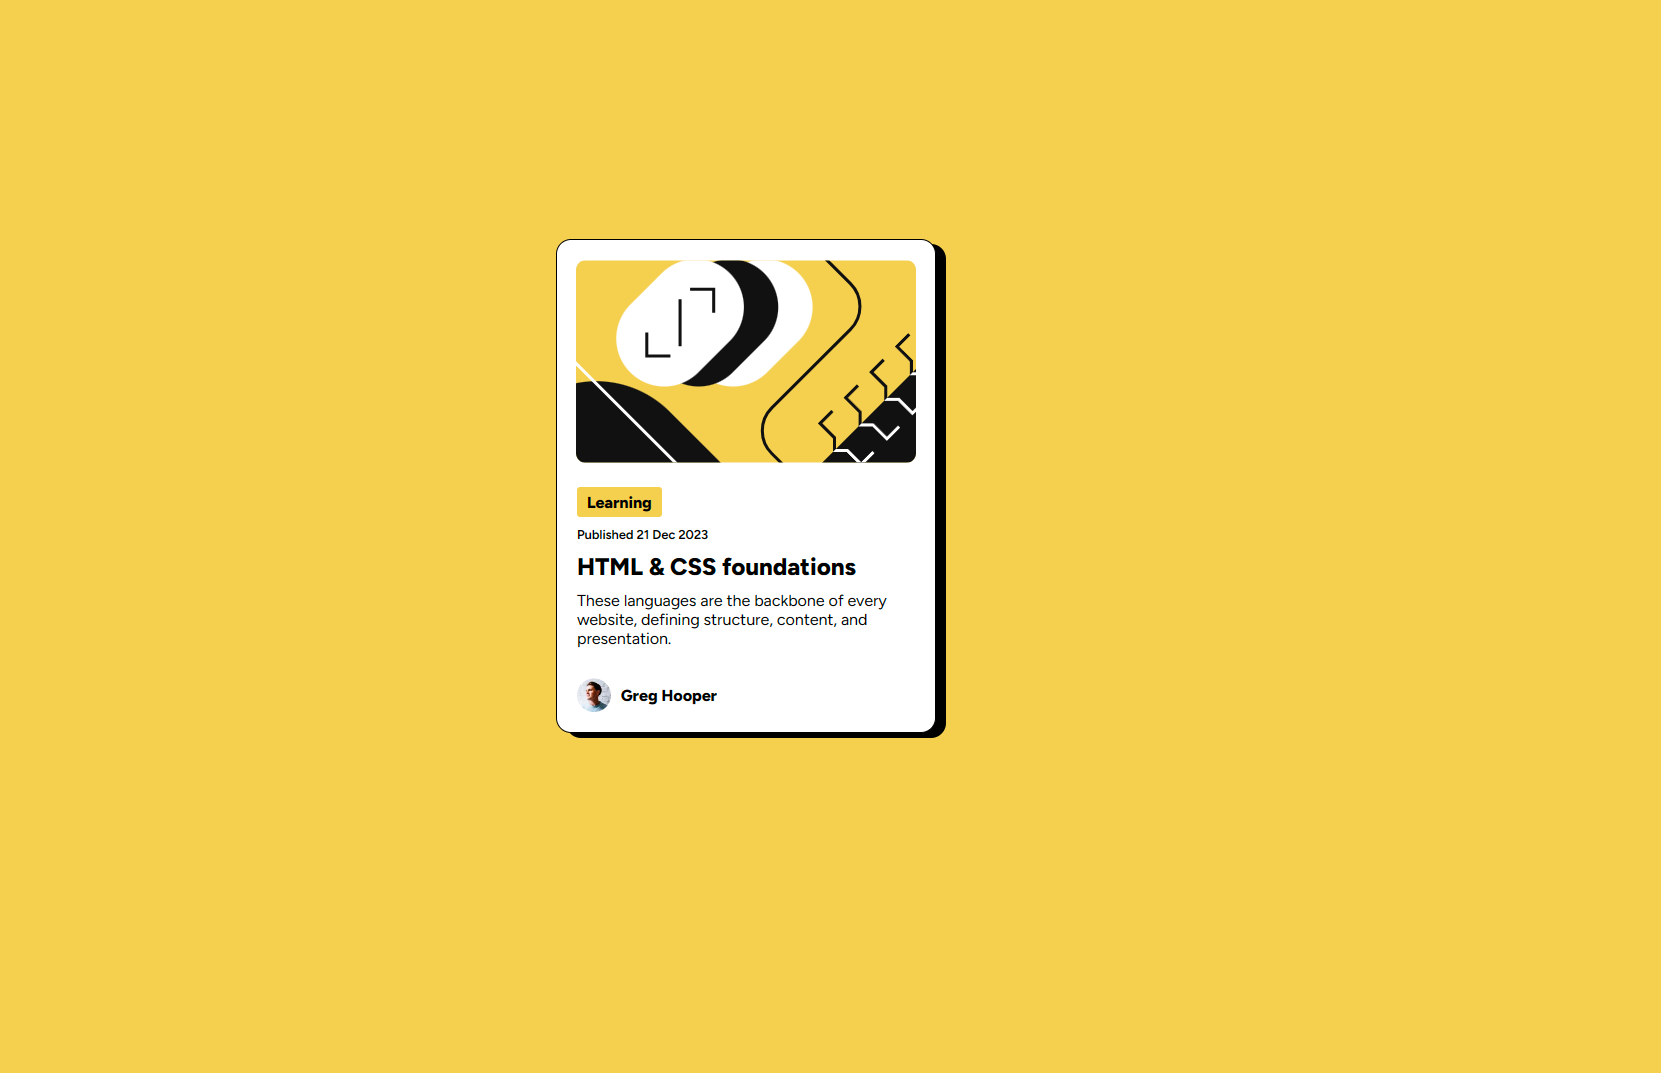
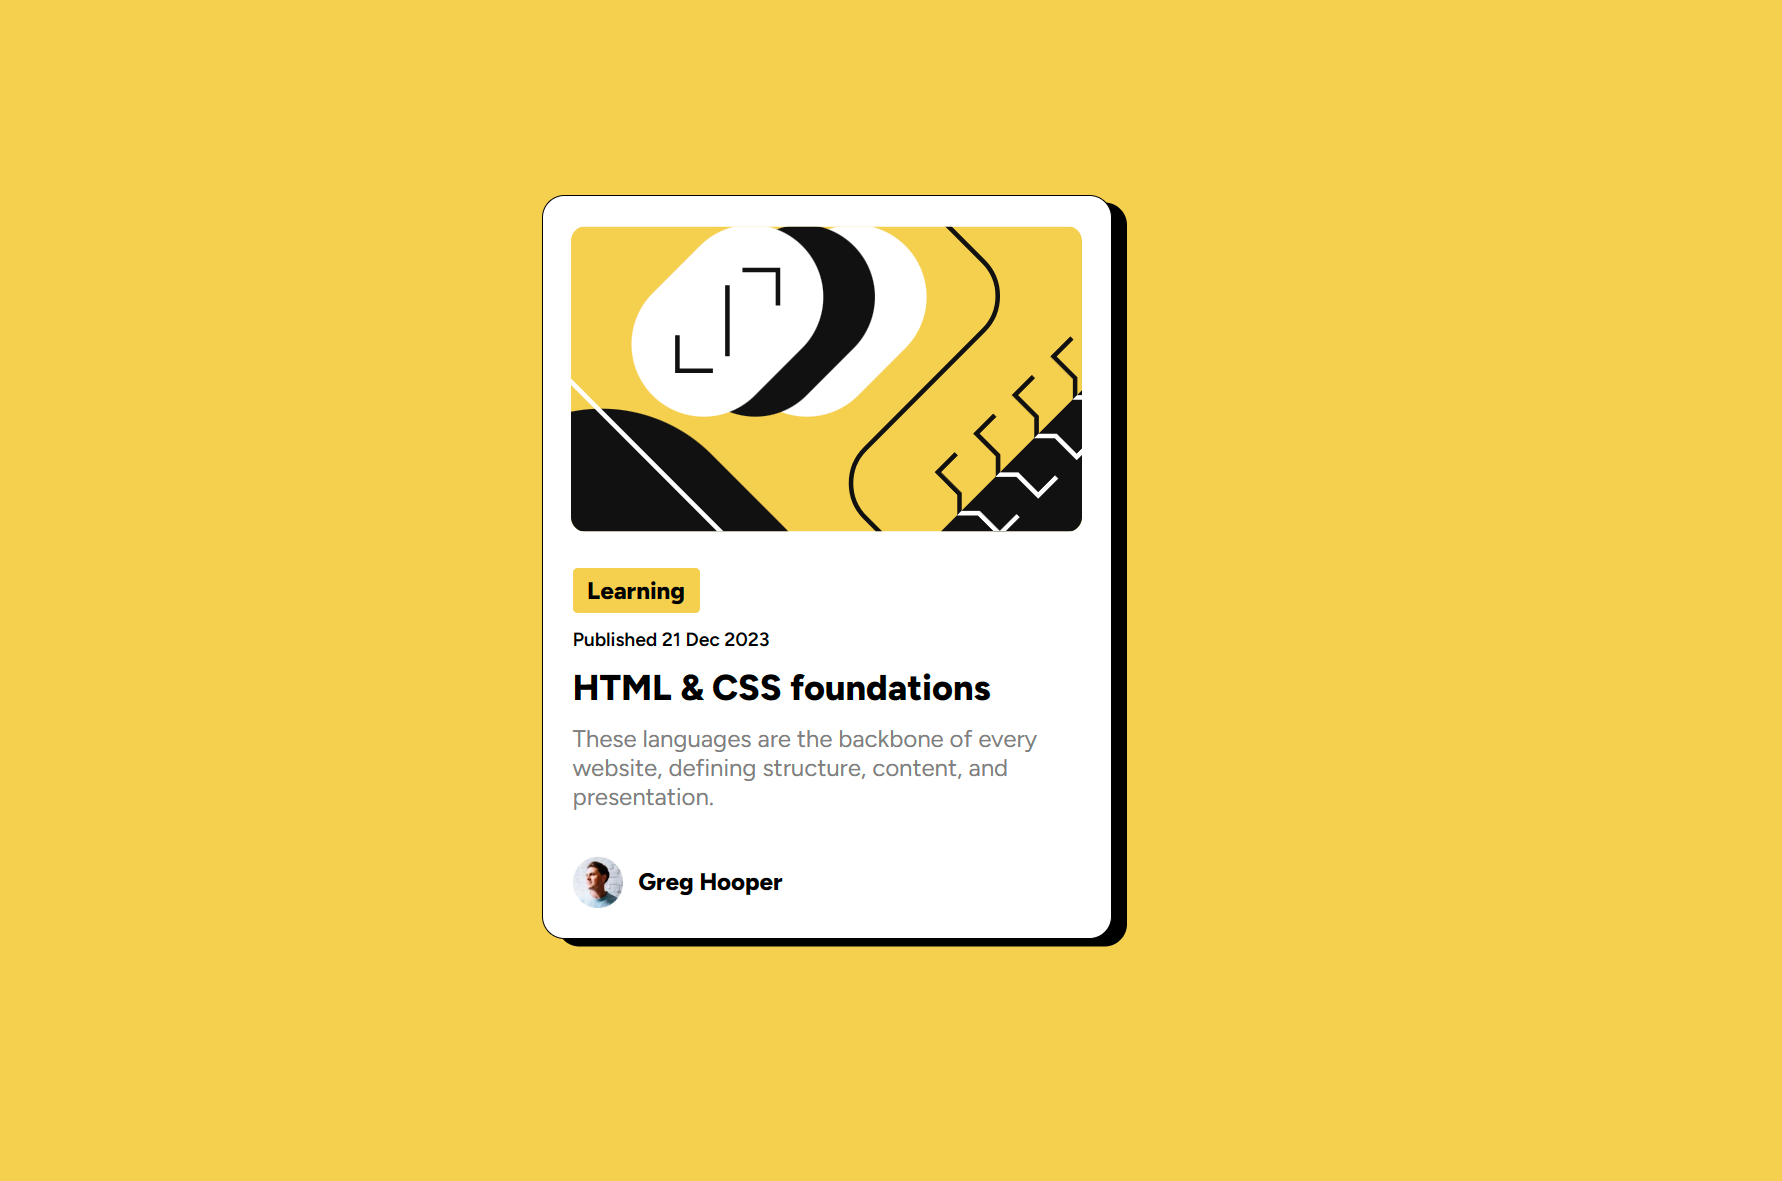
Changed description text color.

Changed region(s): [[0.307, 0.1538, 0.6448, 0.7996]]

diff --git a/style.css b/style.css
@@ -77,6 +77,7 @@ main {
 }
 
 .container-description {
+    color: hsl(0, 0%, 50%);
     margin: 10px 0px;
 }
 

diff --git a/README.md b/README.md
@@ -5,7 +5,7 @@ This is my first solution to the [Blog Preview Card page challenge on Frontend M
 ## 🪞 Screenshots
 
 ![](design/solution-desktop-design.png)
-![](design/solution-mobile-design.jpg)
+![](design/solution-mobile-design.png)
 
 ## 🎥 Live WebSite
 
